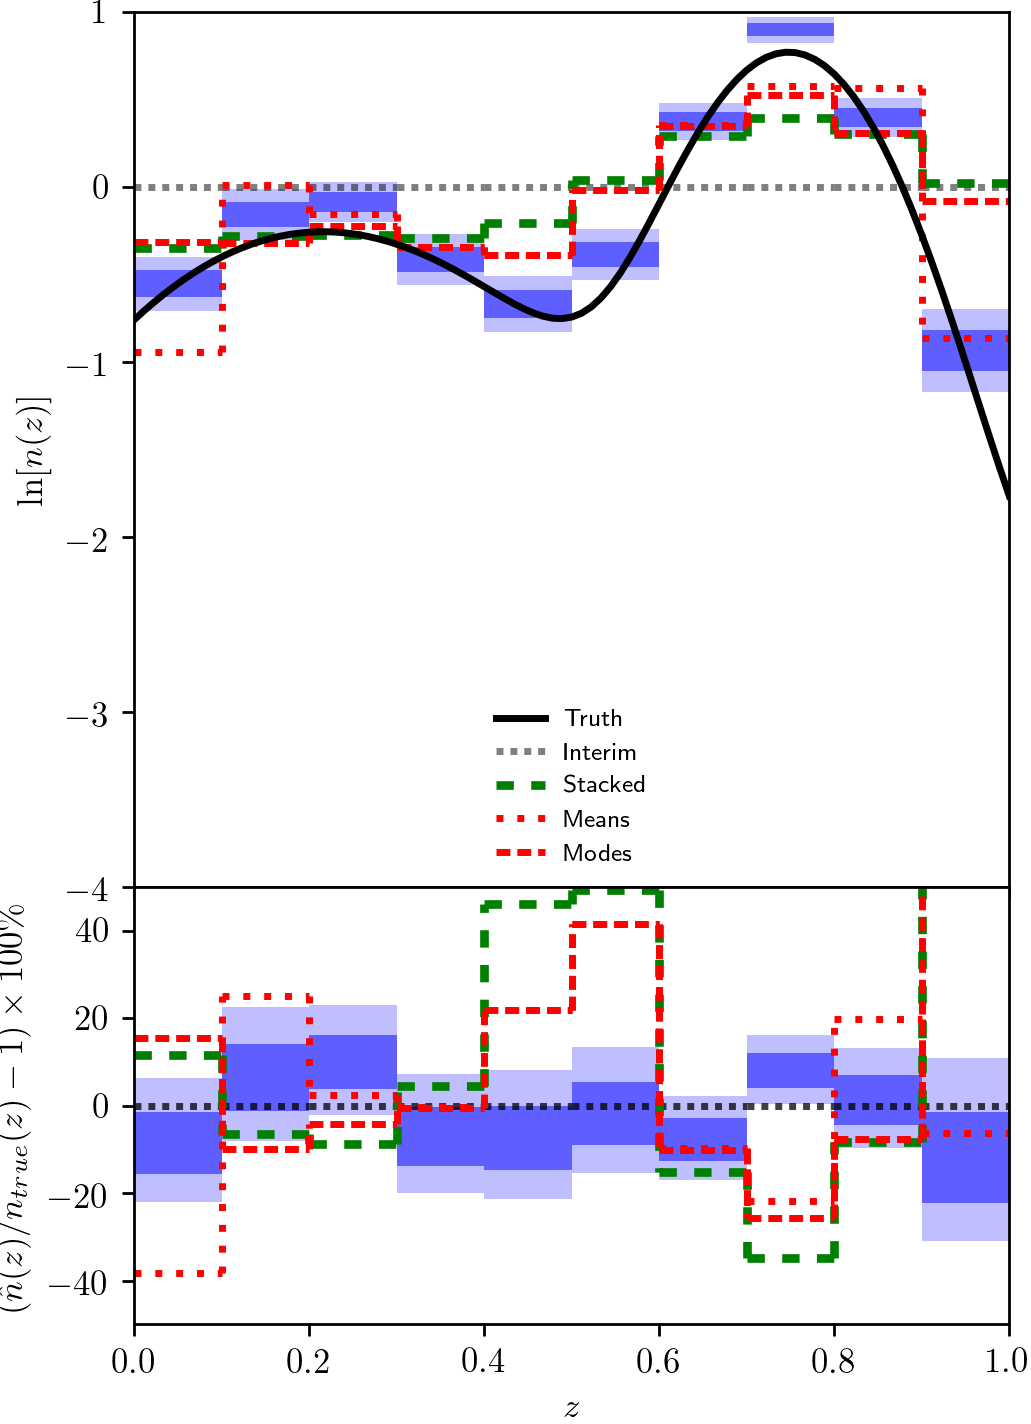
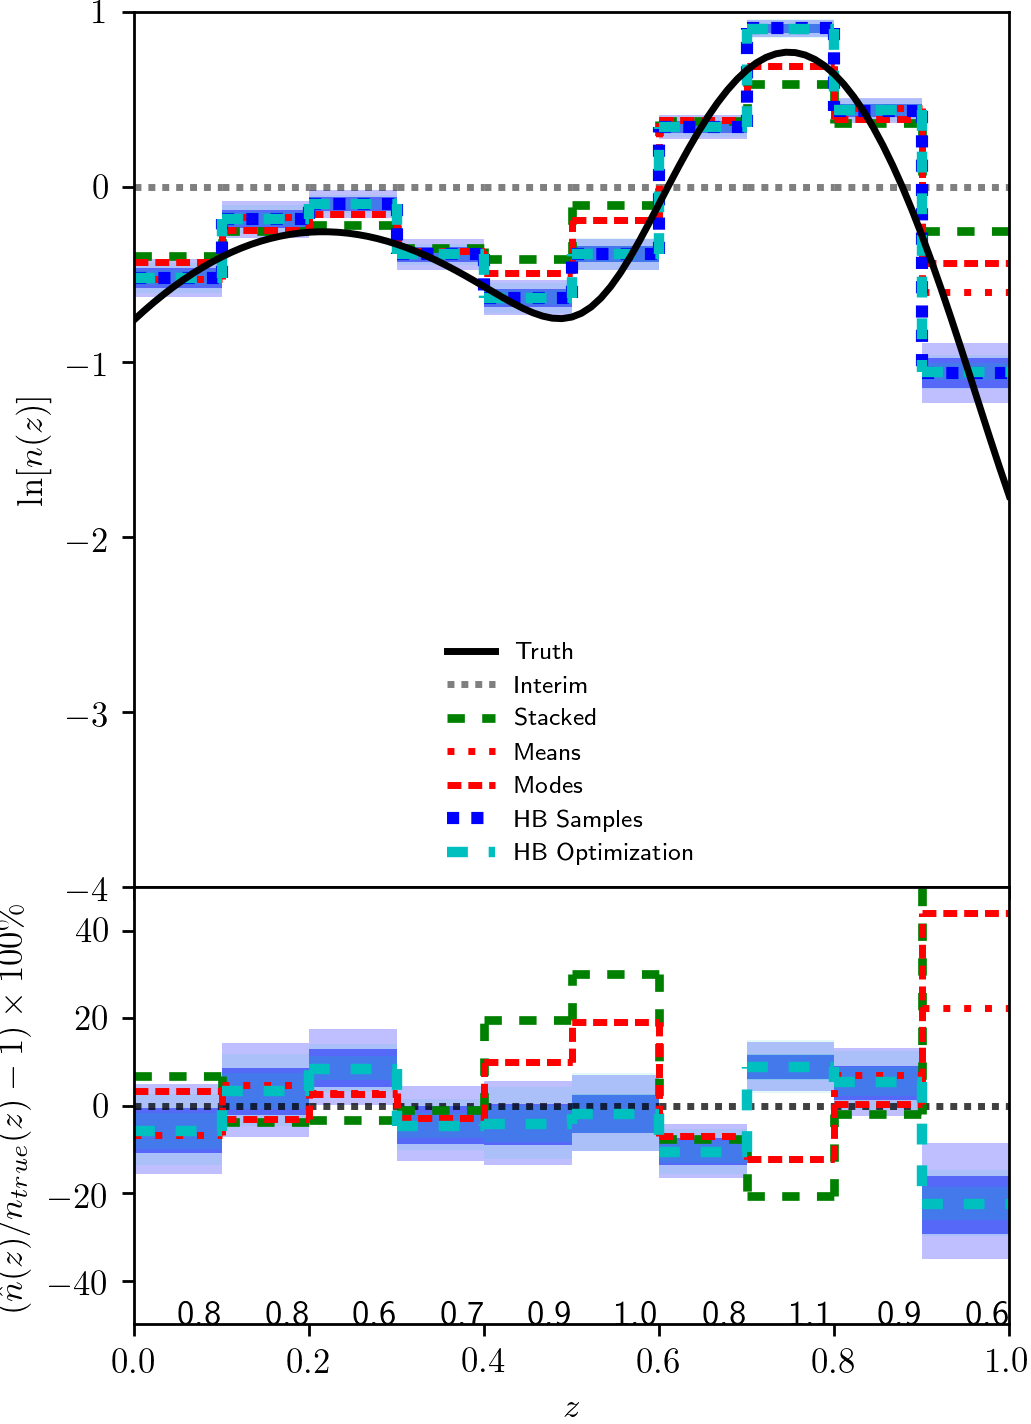
showing importance sampling might not work

diff --git a/chippr/log_z_dens.py b/chippr/log_z_dens.py
@@ -4,6 +4,7 @@ import os
 import scipy.optimize as op
 import cPickle as cpkl
 import emcee
+import sys
 
 import matplotlib as mpl
 mpl.use('PS')
@@ -174,9 +175,8 @@ class log_z_dens(object):
 
         Returns
         -------
-        res.x: numpy.ndarray, float
-            array of logged redshift density function bin values maximizing
-            hyperposterior
+        res: scipy.optimize.OptimizeResult object
+            structure containing solution, hessian, etc.
         """
         if no_data:
             def _objective(log_nz):
@@ -191,11 +191,11 @@ class log_z_dens(object):
         if vb:
             print(self.dir + ' starting at ', start, _objective(start))
 
-        res = op.minimize(_objective, start, method="Nelder-Mead", options={"maxfev": 1e5, "maxiter":1e5})
+        res = op.minimize(_objective, start, method="BFGS", tol=sys.float_info.epsilon)#, options={'maxiter'=1e6, 'disp'=True})
 
         if vb:
             print(self.dir + ': ' + str(res))
-        return res.x
+        return res
 
     def calculate_mmle(self, start, vb=True, no_data=0, no_prior=0):
         """
@@ -221,13 +221,18 @@ class log_z_dens(object):
             hyperposterior
         """
         if 'log_mmle_nz' not in self.info['estimators']:
-            log_mle = self.optimize(start, no_data=no_data, no_prior=no_prior)
+            mle_info = self.optimize(start, no_data=no_data, no_prior=no_prior)
+            log_mle = mle_info['x']
+            log_mle_cov = mle_info['hess_inv']
             mle_nz = np.exp(log_mle)
             self.mle_nz = mle_nz / np.dot(mle_nz, self.bin_difs)
             self.log_mle_nz = u.safe_log(self.mle_nz)
+            self.log_mle_stds = np.sqrt(np.diagonal(log_mle_cov))
             self.info['estimators']['log_mmle_nz'] = self.log_mle_nz
+            self.info['log_mmle_stds'] = self.log_mle_stds
         else:
             self.log_mle_nz = self.info['estimators']['log_mmle_nz']
+            self.log_mle_stds = self.info['log_mmle_stds']
             self.mle_nz = np.exp(self.log_mle_nz)
 
         return self.log_mle_nz
@@ -401,7 +406,7 @@ class log_z_dens(object):
             full_chain = np.array([[vals[w]] for w in range(self.n_walkers)])
             while self.burning_in:
                 if vb:
-                    print('beginning sampling '+str(self.burn_ins))
+                    print(self.plot_dir + ' beginning sampling '+str(self.burn_ins))
                 burn_in_mcmc_outputs = self.sample(vals, 10**n_burned)
                 chain = burn_in_mcmc_outputs['chains']
                 burn_in_mcmc_outputs['chains'] -= u.safe_log(np.sum(np.exp(chain) * self.bin_difs[np.newaxis, np.newaxis, :], axis=2))[:, :, np.newaxis]
@@ -420,21 +425,27 @@ class log_z_dens(object):
             full_chain = np.concatenate((full_chain, mcmc_outputs['chains']), axis=1)
             with open(os.path.join(self.res_dir, 'full_chain.p'), 'wb') as file_location:
                 cpkl.dump(full_chain, file_location)
+            if vb:
+                print('finished sampling ' + self.dir)
 
             self.log_smp_nz = mcmc_outputs['chains']
             self.smp_nz = np.exp(self.log_smp_nz)
             self.info['log_sampled_nz_meta_data'] = mcmc_outputs
-            self.log_bfe_nz = s.norm_fit(self.log_smp_nz)[0]
+            log_bfe_info = s.norm_fit(self.log_smp_nz)
+            self.log_bfe_nz = log_bfe_info[0]
+            self.log_bfe_stds = log_bfe_info[1]
             self.bfe_nz = np.exp(self.log_bfe_nz)
             self.info['estimators']['log_mean_sampled_nz'] = self.log_bfe_nz
+            self.info['log_mean_sampled_stds'] = self.log_bfe_stds
         else:
             self.log_smp_nz = self.info['log_sampled_nz_meta_data']
             self.smp_nz = np.exp(self.log_smp_nz)
             self.log_bfe_nz = self.info['estimators']['log_mean_sampled_nz']
             self.bfe_nz = np.exp(self.log_smp_nz)
+            self.log_bfe_stds = self.info['log_mean_sampled_stds']
 
         if vb:
-            plots.plot_samples(self.info, self.plot_dir)
+            plots.plot_samples(self.info, self.dir)
 
         return self.log_smp_nz
 
@@ -455,6 +466,7 @@ class log_z_dens(object):
         self.info['stats']['kld'] = {}
         if self.truth is not None:
             for key in self.info['estimators']:
+                # assert(np.shape(self.info['estimators'][key]) == np.shape(self.tru_nz))
                 self.info['stats']['kld'][key] = s.calculate_kld(self.tru_nz, self.info['estimators'][key])
 
         self.info['stats']['rms'], self.info['stats']['log_rms'] = {}, {}
@@ -496,7 +508,7 @@ class log_z_dens(object):
         with open(os.path.join(self.res_dir, read_loc), 'rb') as file_location:
             self.info = cpkl.load(file_location)
         if vb:
-            print('The following quantities were read from '+read_loc+' in the '+style+' format:')
+            print('The following quantities were read from '+self.dir+' in the '+style+' format:')
             for key in self.info:
                 print(key)
             if 'estimators' in self.info:
@@ -519,7 +531,7 @@ class log_z_dens(object):
         with open(os.path.join(self.res_dir, write_loc), 'wb') as file_location:
             cpkl.dump(self.info, file_location)
         if vb:
-            print('The following quantities were written to '+write_loc+' in the '+style+' format:')
+            print('The following quantities were written to '+self.dir+' in the '+style+' format:')
             for key in self.info:
                 print(key)
         return

diff --git a/chippr/log_z_dens_plots.py b/chippr/log_z_dens_plots.py
@@ -298,6 +298,11 @@ def plot_estimators(info, plot_dir):
                         w=w_tbp, s=s_tbp, a=a_tbp, c=c_tbp, d=d_tbp)
         # black_plots.append(tbp)
         # black_labels.append(l_tbp+lnz)
+        if 'log_mmle_stds' in info and 'log_mean_sampled_stds' in info:
+            bin_mids = (info['bin_ends'][:-1] + info['bin_ends'][1:]) / 2.
+            ratios = info['log_mmle_stds'] / info['log_mean_sampled_stds']
+            for k in range(len(info['bin_ends'])-1):
+                mini_sps.text(bin_mids[k], -50., str(round(ratios[k], 1)))
     else:
         f = plt.figure(figsize=(5, 5))
         sps_log = f.add_subplot(1, 1, 1)
@@ -363,8 +368,11 @@ def plot_estimators(info, plot_dir):
                             w=w_map, s=s_map, a=a_map, c=c_map, d=d_map)
 
     if 'log_mean_sampled_nz' in info['estimators']:
+        pu.plot_step(sps_log, info['bin_ends'],
+                        info['estimators']['log_mean_sampled_nz'],
+                        w=w_bfe, s=s_bfe, a=a_bfe, c=c_bfe, d=d_bfe, l=l_bfe+lnz)
         plot_samples(info, plot_dir)
-        (locs, scales) = s.norm_fit(info['log_sampled_nz_meta_data']['chains'])
+        (locs, scales) = (info['estimators']['log_mean_sampled_nz'], info['log_mean_sampled_stds'])
         for k in range(len(info['bin_ends'])-1):
             x_errs = [info['bin_ends'][k], info['bin_ends'][k],
                         info['bin_ends'][k+1], info['bin_ends'][k+1]]
@@ -381,9 +389,6 @@ def plot_estimators(info, plot_dir):
             sps_log.fill(x_errs, log_y_errs_2, color=c_bfe, alpha=0.25,
                             linewidth=0.)
         # bfe, =
-        # pu.plot_step(sps_log, info['bin_ends'],
-        #                 info['estimators']['log_mean_sampled_nz'],
-        #                 w=w_bfe, s=s_bfe, a=a_bfe, c=c_bfe, d=d_bfe, l=l_bfe+lnz)
         # color_plots.insert(0, bfe)
         # color_labels.insert(0, l_bfe+lnz)
         if info['truth'] is not None:
@@ -402,20 +407,48 @@ def plot_estimators(info, plot_dir):
             #                 (1. - np.exp(info['estimators']['log_mean_sampled_nz']) / bin_true) * 100.,
             #                 w=w_bfe, s=s_bfe, a=a_bfe, c=c_bfe, d=d_bfe)
 
-    elif 'log_mmle_nz' in info['estimators']:
+    if 'log_mmle_nz' in info['estimators']:
         # mle, =
         pu.plot_step(sps_log, info['bin_ends'],
                         info['estimators']['log_mmle_nz'], w=w_mle,
                         s=s_mle, a=a_mle, c=c_mle, d=d_mle, l=l_mle+lnz)
+        (locs, scales) = (info['estimators']['log_mmle_nz'], info['log_mmle_stds'])
+        for k in range(len(info['bin_ends'])-1):
+            x_errs = [info['bin_ends'][k], info['bin_ends'][k],
+                        info['bin_ends'][k+1], info['bin_ends'][k+1]]
+            log_y_errs_1 = np.array([locs[k] - scales[k], locs[k] + scales[k],
+                                locs[k] + scales[k], locs[k] - scales[k]])
+            log_y_errs_2 = np.array([locs[k] - 2 * scales[k], locs[k] + 2 * scales[k],
+                                locs[k] + 2 * scales[k], locs[k] - 2 * scales[k]])
+            # y_errs_1 = [np.exp(locs[k] - scales[k]), np.exp(locs[k] + scales[k]),
+            #             np.exp(locs[k] + scales[k]), np.exp(locs[k] - scales[k])]
+            # y_errs_2 = [np.exp(locs[k] - 2 * scales[k]), np.exp(locs[k] + 2 * scales[k]),
+            #             np.exp(locs[k] + 2 * scales[k]), np.exp(locs[k] - 2 * scales[k])]
+            sps_log.fill(x_errs, log_y_errs_1, color=c_mle, alpha=0.2,
+                            linewidth=0.)
+            sps_log.fill(x_errs, log_y_errs_2, color=c_mle, alpha=0.1,
+                            linewidth=0.)
         # color_plots.insert(0, mle)
         # color_labels.insert(0, l_mle+lnz)
         if info['truth'] is not None:
             pu.plot_step(mini_sps, info['bin_ends'],
                             (np.exp(info['estimators']['log_mmle_nz']) / bin_true - 1.) * 100.,
                             w=w_mle, s=s_mle, a=a_mle, c=c_mle, d=d_mle)
+            for k in range(len(info['bin_ends'])-1):
+                x_errs = [info['bin_ends'][k], info['bin_ends'][k],
+                            info['bin_ends'][k+1], info['bin_ends'][k+1]]
+                y_errs_1 = np.exp(np.array([locs[k] - scales[k], locs[k] + scales[k],
+                        locs[k] + scales[k], locs[k] - scales[k]])) / bin_true[k]
+                y_errs_2 = np.exp(np.array([locs[k] - 2 * scales[k], locs[k] + 2 * scales[k],
+                        locs[k] + 2 * scales[k], locs[k] - 2 * scales[k]])) / bin_true[k]
+                mini_sps.fill(x_errs, (y_errs_1 - 1.) * 100., color=c_mle, alpha=0.2,
+                            linewidth=0.)
+                mini_sps.fill(x_errs, (y_errs_2 - 1.) * 100., color=c_mle, alpha=0.1,
+                            linewidth=0.)
 
     # sps_log.legend(handles=color_plots[:-1], fontsize='x-small', loc='lower center', frameon=False)
     sps_log.legend(fontsize='x-small', loc='lower center', frameon=False)
+    f.set_title(plot_dir)
     f.subplots_adjust(hspace=0, wspace=0)
     f.savefig(os.path.join(plot_dir, 'estimators.png'), bbox_inches='tight', pad_inches = 0, dpi=d.dpi)
 
